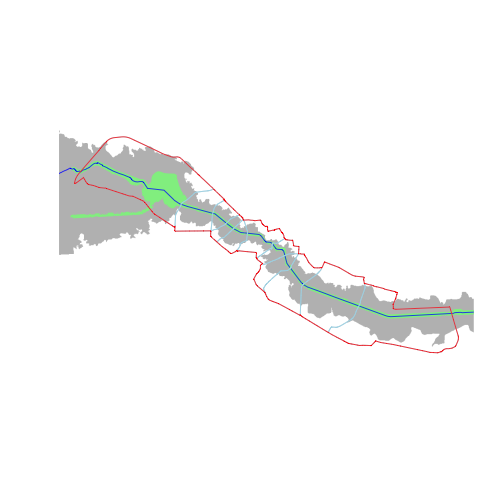
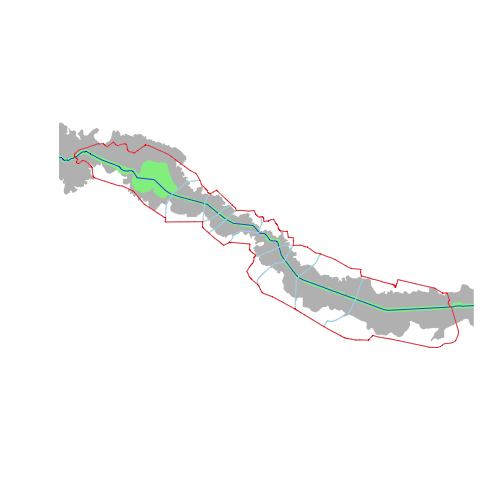
Update vignettes (#427)
* Fix image path in vignette precompile script

* Update corridor and segmentation vignettes

* Add changelog entry

Changed region(s): [[0.119, 0.2381, 0.9524, 0.7143]]

diff --git a/NEWS.md b/NEWS.md
@@ -37,6 +37,8 @@ and this project adheres to [Semantic Versioning](https://semver.org/spec/v2.0.0
 
 ## Changed
 
+- The corridor delineation vignette was updated to use `delineate_city_river()` instead of the old `delineate(city_name, river_name, ...)` call, and to reflect the current `corridor_init` parameter (replacing the old `method` argument). The description of the return value was updated to mention the `delineation` S3 class and its full set of layers.
+- The corridor segmentation vignette was updated to accurately describe the default behaviour of `delineate()`, to reference `delineate_city_river()`, and to remove an unused `get_dem_example_data()` call from the setup chunk.
 - All user-facing `stop()`, `warning()`, and `message()` calls have been migrated to `cli` equivalents (`cli_abort()`, `cli_warn()`, `cli_inform()`) for consistent output.
 - The `aoi_buildings` availability check in `delineate()` was moved earlier to fail before any computation begins.
 - The workflow section of the getting started vignette was updated to reflect the latest package design with the five-step workflow: define parameters, acquire data, run delineation, visualize and validate, and export results.
